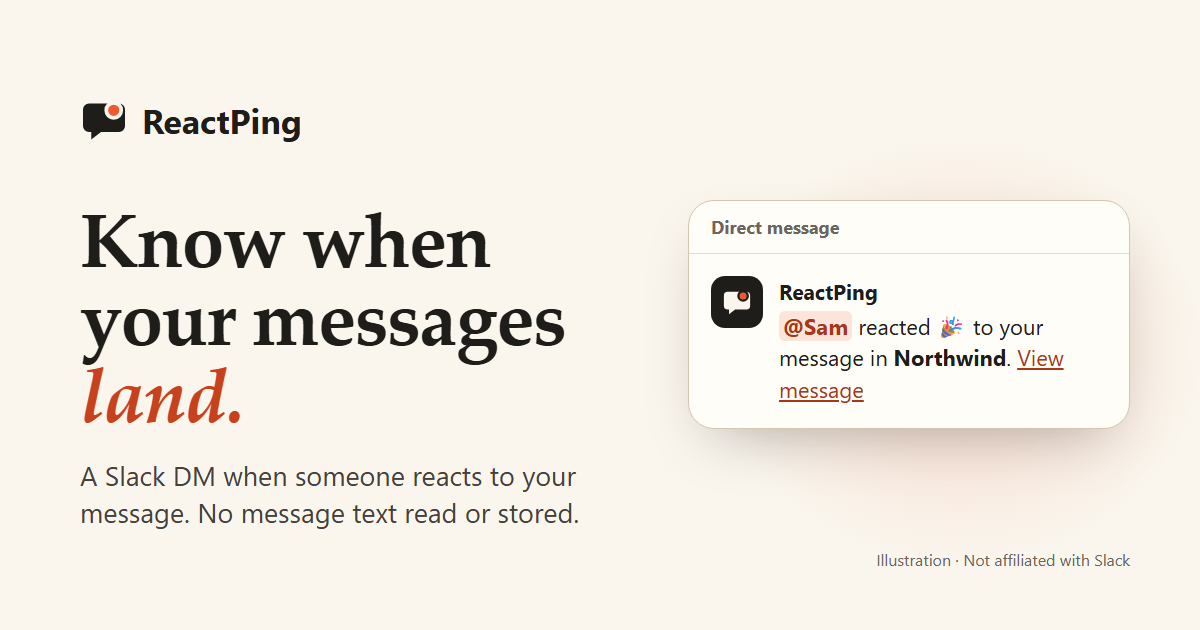
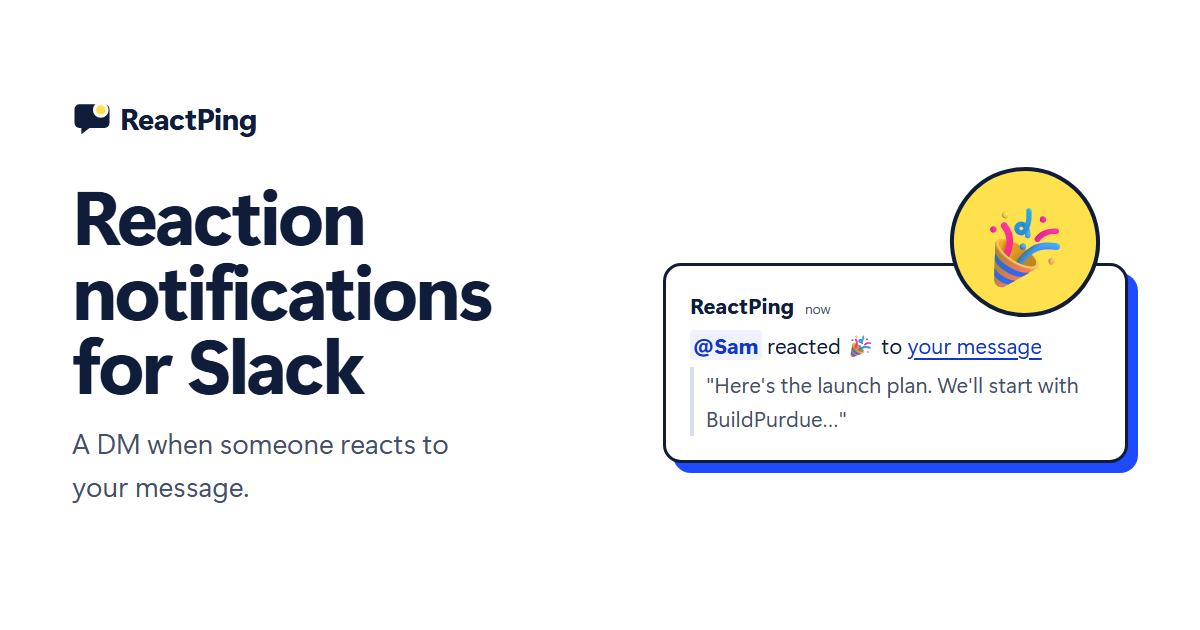
Polish the website: how it works, Q&A, articles, new share image
- Elliot found the site too bare; approved scope adds proof, not filler.
- Homepage: hero mock now shows the quoted preview, a three-step How it
  works, four Q&As (self-reactions, per-person install, admin approval,
  disconnect), and a privacy summary that links to /security.
- New /how-it-works and /security articles for search; code-proof links
  moved from the homepage into /security, which links on to GitHub
  (Elliot's site -> article -> repo SEO idea). noindex stays until launch.
- New social-share card matching the current design.
- Phones hide the header text links; the footer carries them.
- Homepage word cap raised to 230; long-form content lives in the articles.

diff --git a/public/index.html b/public/index.html
@@ -6,7 +6,7 @@
     <title>ReactPing: reaction notifications for Slack</title>
     <meta
       name="description"
-      content="ReactPing DMs you when someone reacts to your Slack message: who reacted, the emoji, and a link back. No tracking, and it never stores your messages."
+      content="ReactPing DMs you when someone reacts to your Slack message: who reacted, the emoji, a preview, and a link back. No tracking, and it never stores your messages."
     />
     <meta name="robots" content="noindex, nofollow" />
     <meta property="og:type" content="website" />
@@ -36,7 +36,8 @@
         <span>ReactPing</span>
       </a>
       <nav aria-label="Main">
-        <a href="#privacy">Privacy</a>
+        <a href="/how-it-works">How it works</a>
+        <a href="/security">Security</a>
         <a class="btn btn-small" href="/connect">Add to Slack</a>
       </nav>
     </header>
@@ -54,8 +55,19 @@
           <div class="ping-dm">
             <p class="ping-from"><strong>ReactPing</strong> <span>now</span></p>
             <p><span class="mention">@Sam</span> reacted 🎉 to <span class="fake-link">your message</span></p>
+            <p class="ping-quote">"Here's the launch plan. We'll start with BuildPurdue…"</p>
           </div>
         </figure>
+      </section>
+
+      <section class="how wrap" aria-labelledby="how-heading">
+        <h2 id="how-heading">How it works</h2>
+        <ol class="how-steps">
+          <li><strong>Add to Slack.</strong> Takes ten seconds.</li>
+          <li><strong>Pick your workspace.</strong> Repeat for each one you use.</li>
+          <li><strong>Get a DM</strong> whenever someone reacts to your message.</li>
+        </ol>
+        <p><a href="/how-it-works">Read how it works</a></p>
       </section>
 
       <section class="privacy" id="privacy" aria-labelledby="privacy-heading">
@@ -65,38 +77,22 @@
           <dl class="claims">
             <div>
               <dt>Two permissions</dt>
-              <dd>
-                See reactions. Send you a DM.
-                <a href="https://github.com/ElliotDrel/reactping/blob/main/src/slack.ts#L3-L4">Scopes</a>
-              </dd>
+              <dd>See reactions. Send you a DM.</dd>
             </div>
             <div>
               <dt>Reactions only</dt>
-              <dd>
-                No other data is needed.
-                <a href="https://github.com/ElliotDrel/reactping/blob/main/src/handler.ts#L309-L338">Event handling</a>
-                <a href="https://github.com/ElliotDrel/reactping/blob/main/src/slack.ts#L113-L160">Slack calls</a>
-              </dd>
+              <dd>No other data is needed.</dd>
             </div>
             <div>
               <dt>Minimal storage</dt>
-              <dd>
-                Slack IDs, workspace URL, encrypted tokens.
-                <a
-                  href="https://github.com/ElliotDrel/reactping/blob/main/supabase/migrations/20261113000000_reactping_slack_installations.sql#L14-L24"
-                  >Table</a
-                >
-                <a href="https://github.com/ElliotDrel/reactping/blob/main/src/db.ts#L82-L83">Encryption</a>
-              </dd>
+              <dd>Slack IDs, workspace URL, encrypted tokens.</dd>
             </div>
             <div>
               <dt>No tracking</dt>
-              <dd>
-                No analytics or scripts.
-                <a href="https://github.com/ElliotDrel/reactping/blob/main/vercel.json#L17-L18">Script block</a>
-              </dd>
+              <dd>No analytics or scripts.</dd>
             </div>
           </dl>
+          <p><a href="/security">See the proof in the code</a></p>
         </div>
       </section>
 
@@ -107,6 +103,18 @@
             <dt>Do my own reactions notify me?</dt>
             <dd>No. ReactPing ignores reactions you add to your own messages, so you only hear about other people.</dd>
           </div>
+          <div>
+            <dt>Does everyone need to add it?</dt>
+            <dd>Only people who want DMs. Everyone adds it for themselves.</dd>
+          </div>
+          <div>
+            <dt>What if my admin approves apps?</dt>
+            <dd>Slack lets you request approval. Add ReactPing again once it's approved.</dd>
+          </div>
+          <div>
+            <dt>How do I disconnect?</dt>
+            <dd>Open ReactPing in Slack, go to Home, and select Disconnect. Your record is deleted.</dd>
+          </div>
         </dl>
       </section>
     </main>
@@ -115,6 +123,8 @@
       <p>Free and MIT licensed.</p>
       <nav aria-label="Footer">
         <a href="/connect">Add to Slack</a>
+        <a href="/how-it-works">How it works</a>
+        <a href="/security">Security</a>
         <a href="/privacy">Privacy</a>
         <a href="https://github.com/ElliotDrel/reactping">Source code</a>
       </nav>

diff --git a/public/security.html b/public/security.html
@@ -1,0 +1,95 @@
+<!doctype html>
+<html lang="en">
+  <head>
+    <meta charset="utf-8" />
+    <meta name="viewport" content="width=device-width, initial-scale=1" />
+    <title>How ReactPing protects your messages</title>
+    <meta
+      name="description"
+      content="ReactPing asks Slack for two permissions, never stores your messages, encrypts its tokens, and runs no tracking. Every claim links to the code."
+    />
+    <meta name="robots" content="noindex, nofollow" />
+    <meta name="theme-color" content="#ffffff" />
+    <link rel="icon" href="/assets/favicon.svg" type="image/svg+xml" />
+    <link rel="stylesheet" href="/assets/styles.css" />
+  </head>
+  <body>
+    <a class="skip-link" href="#main">Skip to content</a>
+    <header class="site-header wrap">
+      <a class="brand" href="/" aria-label="ReactPing home">
+        <svg class="logo" viewBox="0 0 32 32" width="28" height="28" aria-hidden="true" focusable="false">
+          <path d="M6 5h20a4 4 0 0 1 4 4v11a4 4 0 0 1-4 4H14l-6.5 5v-5H6a4 4 0 0 1-4-4V9a4 4 0 0 1 4-4z" />
+          <circle class="logo-dot" cx="23" cy="9.5" r="5" />
+        </svg>
+        <span>ReactPing</span>
+      </a>
+      <nav aria-label="Main">
+        <a class="btn btn-small" href="/connect">Add to Slack</a>
+      </nav>
+    </header>
+
+    <main id="main" class="page wrap prose">
+      <h1>How ReactPing protects your messages</h1>
+      <p class="lede">
+        No tracking, and your messages are never stored. You don't have to take our word for it: ReactPing is
+        <a href="https://github.com/ElliotDrel/reactping">open source</a>, and every claim below links to the exact
+        code.
+      </p>
+
+      <h2>Two permissions</h2>
+      <p>
+        ReactPing asks Slack to see reactions and to send you a DM. Nothing else.
+        <a href="https://github.com/ElliotDrel/reactping/blob/main/src/slack.ts#L3-L4">See the permissions</a>.
+      </p>
+
+      <h2>Reactions only</h2>
+      <p>
+        No other data is needed. When someone reacts to your message, ReactPing checks it's someone else's reaction to
+        your message in the same workspace, then sends your DM.
+        <a href="https://github.com/ElliotDrel/reactping/blob/main/src/handler.ts#L309-L338">See the event handling</a>
+        and
+        <a href="https://github.com/ElliotDrel/reactping/blob/main/src/slack.ts#L113-L160">every Slack call it makes</a
+        >.
+      </p>
+
+      <h2>Minimal storage</h2>
+      <p>
+        One database table: your Slack workspace and user IDs, the workspace URL, and encrypted access tokens.
+        <a
+          href="https://github.com/ElliotDrel/reactping/blob/main/supabase/migrations/20261113000000_reactping_slack_installations.sql#L14-L24"
+          >See the table</a
+        >.
+      </p>
+
+      <h2>Encrypted tokens</h2>
+      <p>
+        Slack access tokens are encrypted with AES-256-GCM before they're saved.
+        <a href="https://github.com/ElliotDrel/reactping/blob/main/src/db.ts#L82-L83">See the encryption</a>.
+      </p>
+
+      <h2>No tracking</h2>
+      <p>
+        No analytics, no scripts, and no cookies except one short-lived cookie that secures adding ReactPing to Slack.
+        The site's security policy blocks scripts outright.
+        <a href="https://github.com/ElliotDrel/reactping/blob/main/vercel.json#L17-L18">See the policy</a>.
+      </p>
+
+      <h2>Leave any time</h2>
+      <p>
+        Select <strong>Disconnect</strong> in ReactPing's Home tab in Slack and your record is deleted. Full details are
+        in the <a href="/privacy">privacy policy</a>.
+      </p>
+
+      <p class="actions"><a class="btn btn-large" href="/connect">Add to Slack</a></p>
+    </main>
+
+    <footer class="site-footer wrap">
+      <p><a href="/">ReactPing</a></p>
+      <nav aria-label="Footer">
+        <a href="/how-it-works">How it works</a>
+        <a href="/privacy">Privacy</a>
+        <a href="https://github.com/ElliotDrel/reactping">Source code</a>
+      </nav>
+    </footer>
+  </body>
+</html>

diff --git a/public/how-it-works.html b/public/how-it-works.html
@@ -1,0 +1,85 @@
+<!doctype html>
+<html lang="en">
+  <head>
+    <meta charset="utf-8" />
+    <meta name="viewport" content="width=device-width, initial-scale=1" />
+    <title>How ReactPing works: Slack reaction notifications</title>
+    <meta
+      name="description"
+      content="How ReactPing sends you a Slack DM when someone reacts to your message: setup, what triggers a DM, what it shows, and how to disconnect."
+    />
+    <meta name="robots" content="noindex, nofollow" />
+    <meta name="theme-color" content="#ffffff" />
+    <link rel="icon" href="/assets/favicon.svg" type="image/svg+xml" />
+    <link rel="stylesheet" href="/assets/styles.css" />
+  </head>
+  <body>
+    <a class="skip-link" href="#main">Skip to content</a>
+    <header class="site-header wrap">
+      <a class="brand" href="/" aria-label="ReactPing home">
+        <svg class="logo" viewBox="0 0 32 32" width="28" height="28" aria-hidden="true" focusable="false">
+          <path d="M6 5h20a4 4 0 0 1 4 4v11a4 4 0 0 1-4 4H14l-6.5 5v-5H6a4 4 0 0 1-4-4V9a4 4 0 0 1 4-4z" />
+          <circle class="logo-dot" cx="23" cy="9.5" r="5" />
+        </svg>
+        <span>ReactPing</span>
+      </a>
+      <nav aria-label="Main">
+        <a class="btn btn-small" href="/connect">Add to Slack</a>
+      </nav>
+    </header>
+
+    <main id="main" class="page wrap prose">
+      <h1>How ReactPing works</h1>
+      <p class="lede">
+        In a busy Slack channel, reactions to your messages are easy to miss. ReactPing sends you a DM each time someone
+        reacts, so you know who responded and can jump straight back.
+      </p>
+
+      <h2>1. Add it to Slack</h2>
+      <p>
+        Select <a href="/connect">Add to Slack</a>, pick your workspace, and select <strong>Allow</strong>. ReactPing
+        sends a welcome DM so you know it's working. Use more than one workspace? Add it to each one.
+      </p>
+
+      <h2>2. Someone reacts to your message</h2>
+      <p>
+        Any emoji reaction from someone else on a message you wrote triggers a DM. Your own reactions don't. Each person
+        adds ReactPing for themselves, so teammates who haven't added it won't get DMs.
+      </p>
+
+      <h2>3. You get a DM</h2>
+      <p>
+        The DM shows who reacted, the emoji, and a short preview of your message. "Your message" links straight back to
+        it. The DM arrives in the same workspace where the reaction happened.
+      </p>
+
+      <h2>Good to know</h2>
+      <ul>
+        <li>Notifications are best effort. A reaction missed during an outage isn't replayed.</li>
+        <li>
+          If your workspace requires admin approval for apps, Slack lets you request it. Add ReactPing again once it's
+          approved.
+        </li>
+        <li>To stop, open ReactPing in Slack, go to <strong>Home</strong>, and select <strong>Disconnect</strong>.</li>
+      </ul>
+
+      <h2>Built to respect your privacy</h2>
+      <p>
+        Two permissions, no tracking, and your messages are never stored.
+        <a href="/security">See how ReactPing protects your messages</a>, with links to the code on
+        <a href="https://github.com/ElliotDrel/reactping">GitHub</a>.
+      </p>
+
+      <p class="actions"><a class="btn btn-large" href="/connect">Add to Slack</a></p>
+    </main>
+
+    <footer class="site-footer wrap">
+      <p><a href="/">ReactPing</a></p>
+      <nav aria-label="Footer">
+        <a href="/security">Security</a>
+        <a href="/privacy">Privacy</a>
+        <a href="https://github.com/ElliotDrel/reactping">Source code</a>
+      </nav>
+    </footer>
+  </body>
+</html>

diff --git a/public/assets/styles.css b/public/assets/styles.css
@@ -188,6 +188,13 @@ a:hover {
   text-decoration: underline;
 }
 
+@media (max-width: 560px) {
+  /* Phones: keep the header to the brand and one button; the footer carries the other links. */
+  .site-header nav a:not(.btn) {
+    display: none;
+  }
+}
+
 .site-footer {
   display: flex;
   flex-wrap: wrap;
@@ -270,6 +277,12 @@ a:hover {
   padding: 0 0.2rem;
 }
 
+.ping-quote {
+  border-left: 4px solid var(--rule);
+  padding-left: 0.75rem;
+  color: var(--ink-2);
+}
+
 .fake-link {
   color: var(--signal-deep);
   text-decoration: underline;
@@ -308,6 +321,53 @@ a:hover {
 
 .faq {
   padding-block: clamp(64px, 9vw, 112px);
+}
+
+/* How it works: three numbered steps in a row. */
+
+.how {
+  padding-block: 0 clamp(64px, 9vw, 112px);
+}
+
+.how-steps {
+  list-style: none;
+  counter-reset: step;
+  display: grid;
+  grid-template-columns: repeat(3, minmax(0, 1fr));
+  gap: 1.5rem;
+  margin: 2rem 0;
+  padding: 0;
+}
+
+.how-steps li {
+  counter-increment: step;
+  border-top: 2px solid var(--ink);
+  padding-top: 1rem;
+  color: var(--ink-2);
+}
+
+.how-steps li::before {
+  content: counter(step);
+  display: grid;
+  place-items: center;
+  width: 2.25rem;
+  aspect-ratio: 1;
+  margin-bottom: 0.75rem;
+  background: var(--react);
+  border: 2px solid var(--ink);
+  border-radius: 999px;
+  color: var(--ink);
+  font-weight: 800;
+}
+
+.how-steps strong {
+  color: var(--ink);
+}
+
+@media (max-width: 640px) {
+  .how-steps {
+    grid-template-columns: 1fr;
+  }
 }
 
 .privacy-intro {

diff --git a/test/site.test.ts b/test/site.test.ts
@@ -78,8 +78,9 @@ describe("website", () => {
       .replace(/<[^>]+>/g, " ")
       .split(/\s+/)
       .filter(Boolean).length;
-    // Raised from 110 on November 16, 2026, when Elliot added Q&A content; still guards against sprawl.
-    assert.ok(words <= 150, `homepage has ${words} words`);
+    // Raised from 110 (Nov 16) and 150 (Nov 17) as Elliot added How it works and Q&A; still guards against sprawl.
+    // Long-form content belongs on /how-it-works and /security.
+    assert.ok(words <= 230, `homepage has ${words} words`);
     for (const [file, page] of Object.entries(html)) assert.doesNotMatch(page, /<script/i, file);
     const csp = JSON.parse(read("vercel.json")).headers[0].headers.find(
       (h: { key: string }) => h.key === "Content-Security-Policy",

diff --git a/README.md b/README.md
@@ -22,7 +22,7 @@ Deferred to v2: a single inbox across workspaces (with explicit consent). Also d
 
 TypeScript on Node 24, deployed to Vercel with Supabase Postgres. Superseded: the Build Output API generator, Supabase Auth, pg_cron/pg_net/Vault delivery recovery, and the SQLite service before that.
 
-- **Website:** plain static HTML and CSS in `public/` (`/`, `/connect`, and `/privacy`, plus a 404 page). No JavaScript, no configuration, no browser auth. Every "Add to Slack" link opens `/connect`, which explains workspace choice, per-workspace and per-person connection, and admin approval, then continues to `/api/slack/install`. The homepage's privacy claims link to exact source lines; `test/site.test.ts` fails if those lines stop matching. Security headers, clean URLs, and `noindex` come from `vercel.json`. Superseded: CTAs linking straight to `/api/slack/install`.
+- **Website:** plain static HTML and CSS in `public/` (`/`, `/connect`, `/how-it-works`, `/security`, and `/privacy`, plus a 404 page). No JavaScript, no configuration, no browser auth. Every "Add to Slack" link opens `/connect`, which explains workspace choice, per-workspace and per-person connection, and admin approval, then continues to `/api/slack/install`. The homepage summarizes privacy and links to `/security`, an article whose claims link to exact source lines; `test/site.test.ts` fails if those lines stop matching. Security headers, clean URLs, and `noindex` come from `vercel.json`. Superseded: CTAs linking straight to `/api/slack/install`.
 - **Functions:** standard Vercel filesystem functions in `api/`, one per Slack URL, each exporting a Web-standard `GET` or `POST` that calls one shared handler (`src/handler.ts`). The handler takes its dependencies as arguments, so tests run it directly with a mocked Slack API.
   - `GET /api/slack/install` sets the OAuth state cookie and redirects to Slack.
   - `GET /api/slack/oauth/callback` completes OAuth and shows a small result page. Success offers **Open ReactPing in Slack** and **Add another workspace** (back to `/connect`); failures offer **Try again** through `/connect`.
